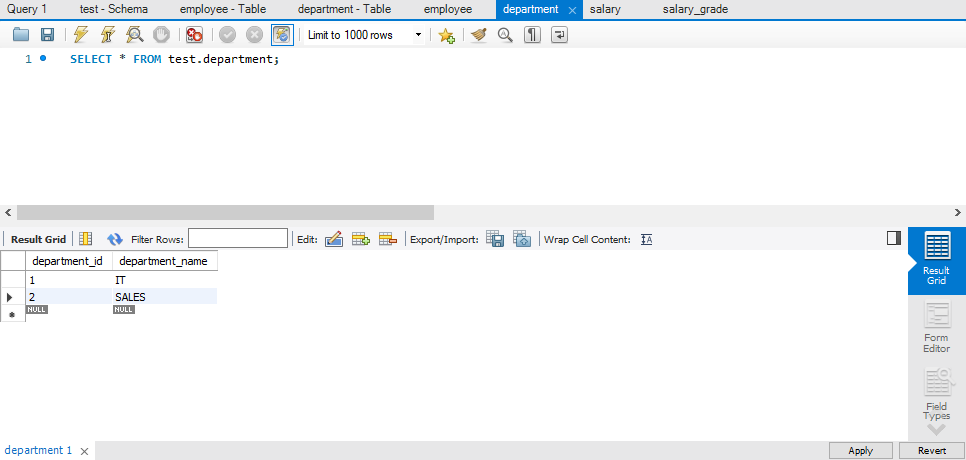
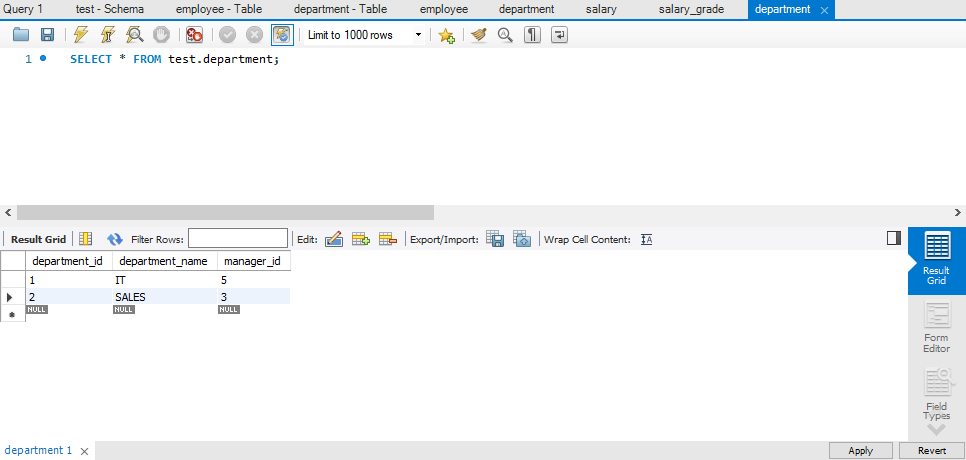
，，

diff --git a/_posts/2022-02-01-MySQL：常用的 SQL 优化经验.md b/_posts/2022-02-01-MySQL：常用的 SQL 优化经验.md
@@ -43,6 +43,8 @@ tags:
 
 ![salary]({{site.baseurl}}/img-post/salary.png)
 
+![manager]({{site.baseurl}}/img-post/sql-manager.png)
+
 
 #### 一旦给表起了别名，就必须使用这个别名、不能再使用原名。
 
@@ -58,12 +60,14 @@ FROM
 ```aidl
 SELECT
     a.employee_name,
-    b.department_name,
+    b.department_name
 FROM
     employee AS a,department AS b
 WHERE
     a.department_id = b.department_id
 ```
+
+![sql-2]({{site.baseurl}}/img-post/sql-2.png)
 
 #### 等值连接 & 非等值连接
 
@@ -76,12 +80,30 @@ WHERE
     a.salary_amount BETWEEN b.lowest_salary AND b.highest_salary;
 ```
 
+![sql-1]({{site.baseurl}}/img-post/sql-1.png)
+
+
 #### 自连接 & 非自连接
+
+
 
 #### 内连接 & 外连接
 
 
 
+#### LEFT JOIN
 
+```aidl
+SELECT
+    a.employee_id,a.employee_name,b.manager_id
+FROM
+    employee AS a
+LEFT JOIN
+	department AS b
+ON
+    a.department_id=b.department_id;
+```
+
+![sql-3]({{site.baseurl}}/img-post/sql-3.png)
 
 
